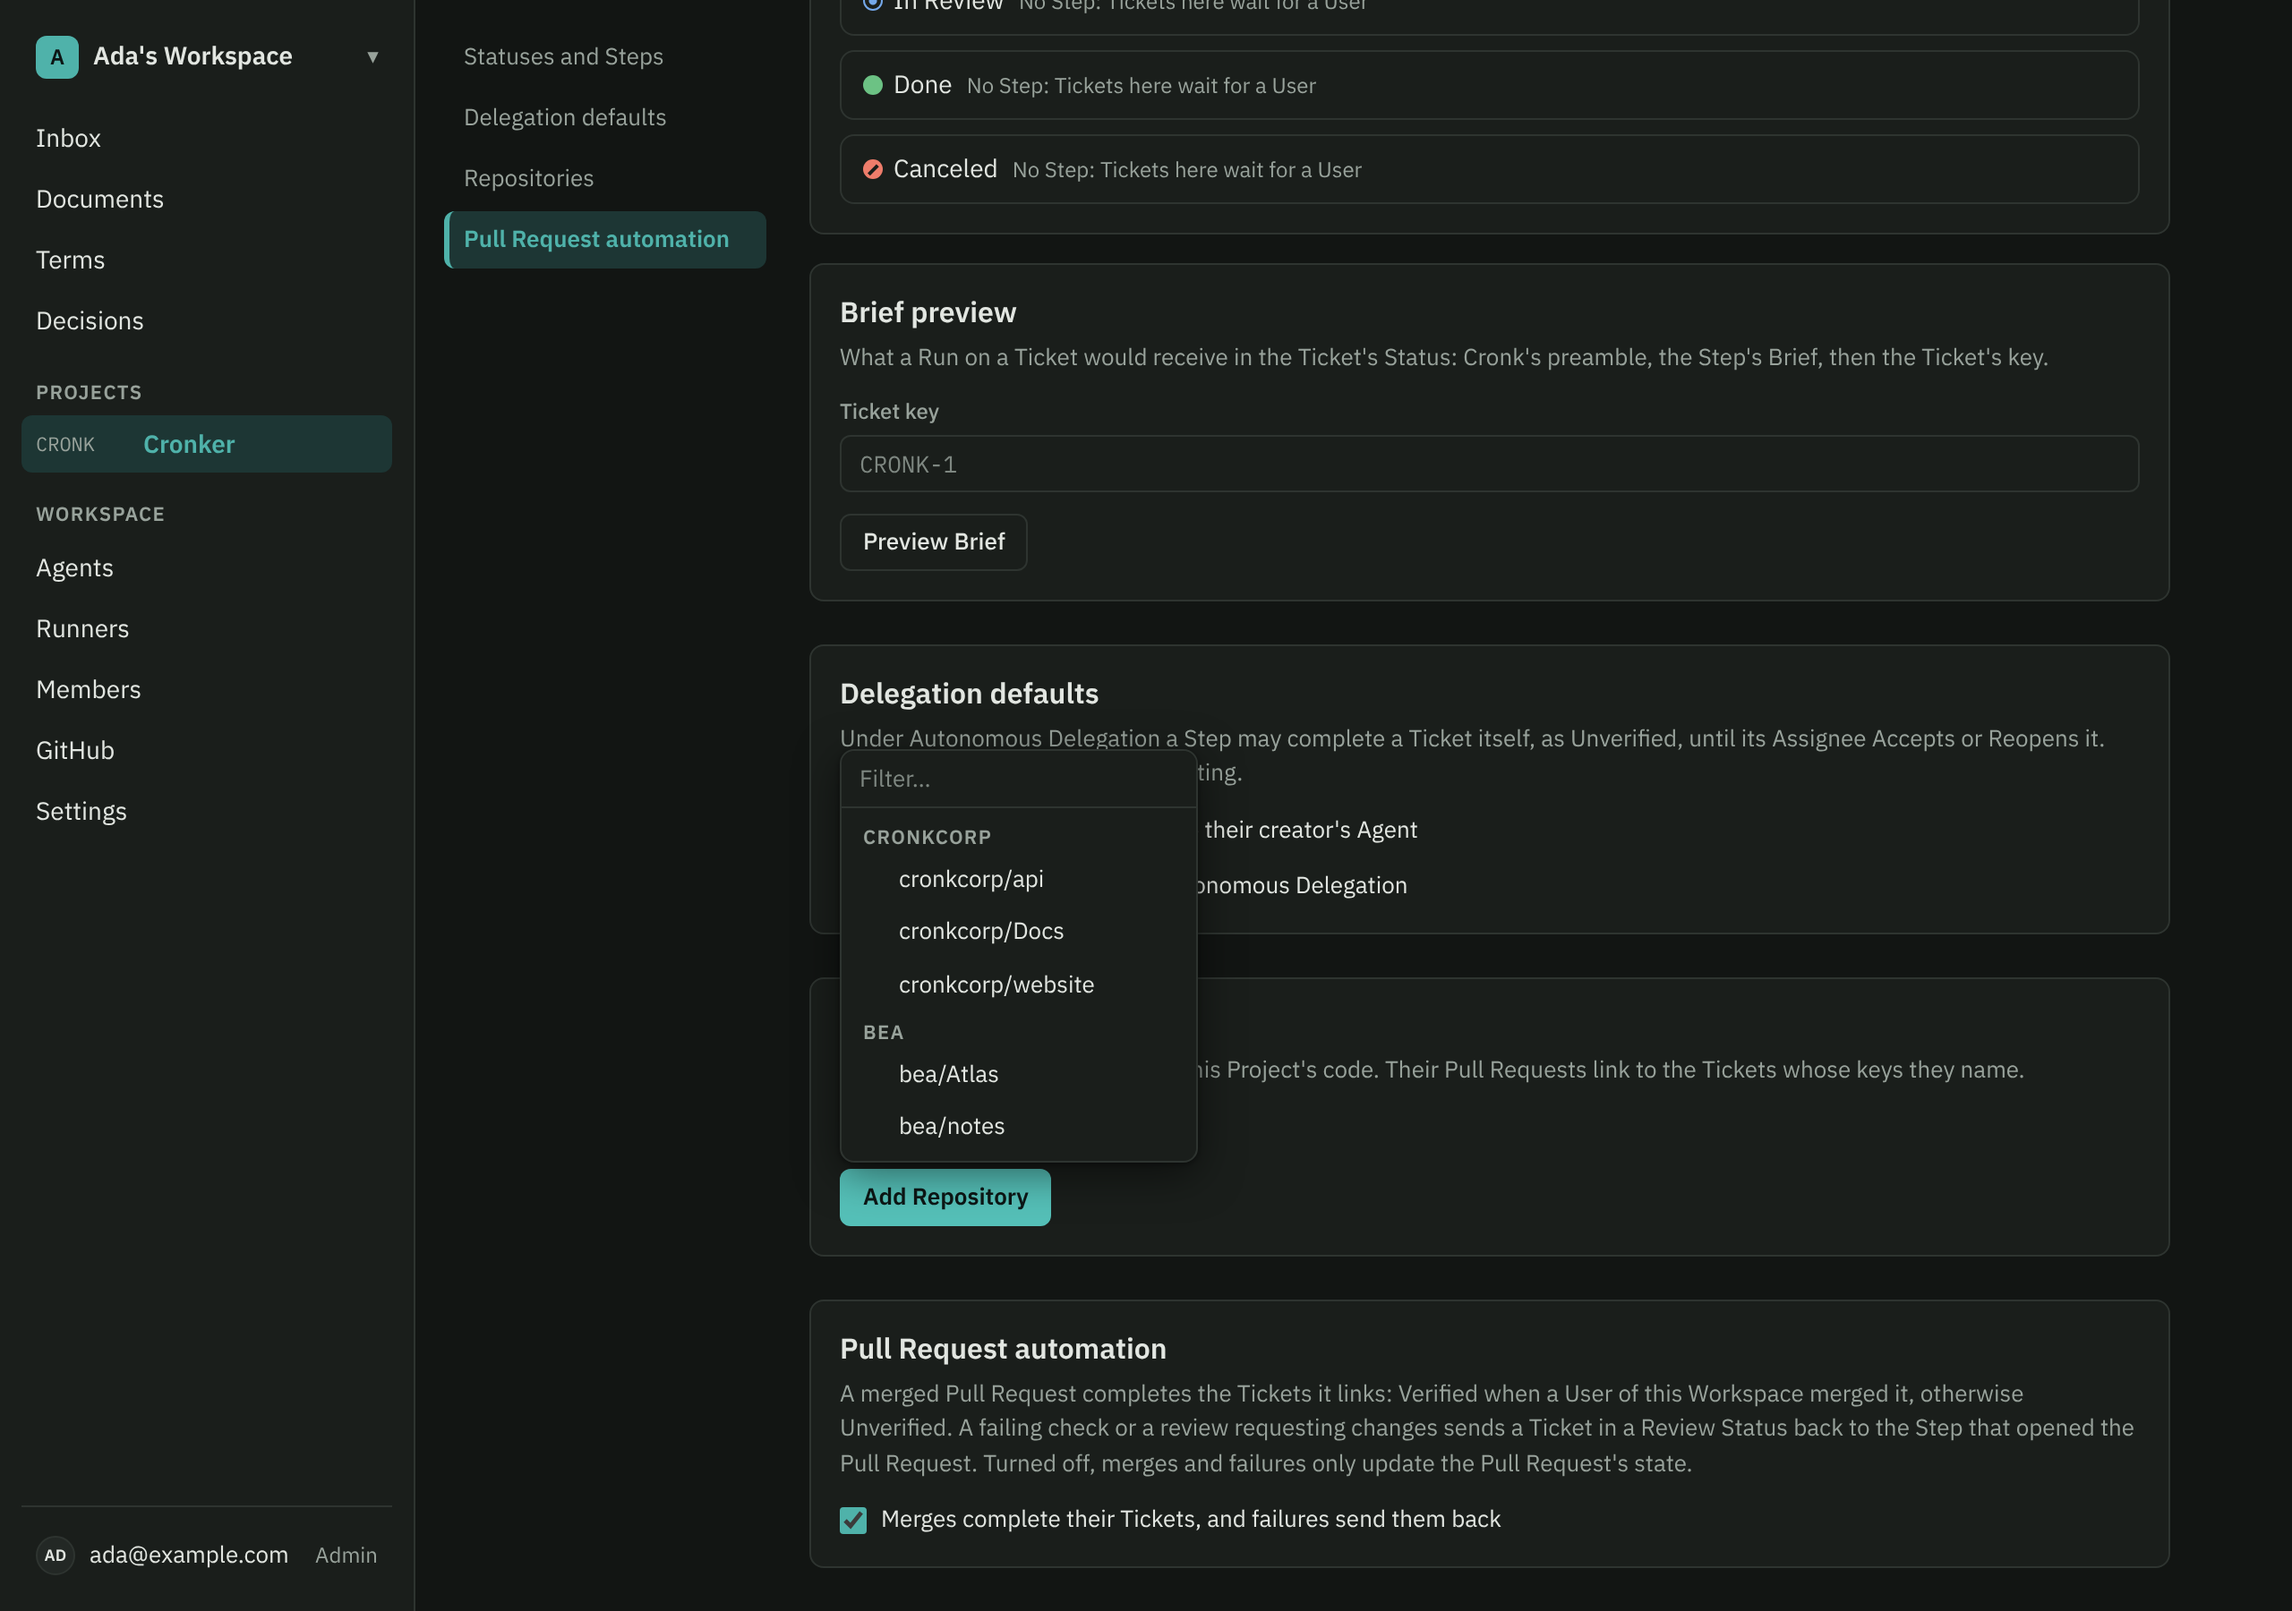
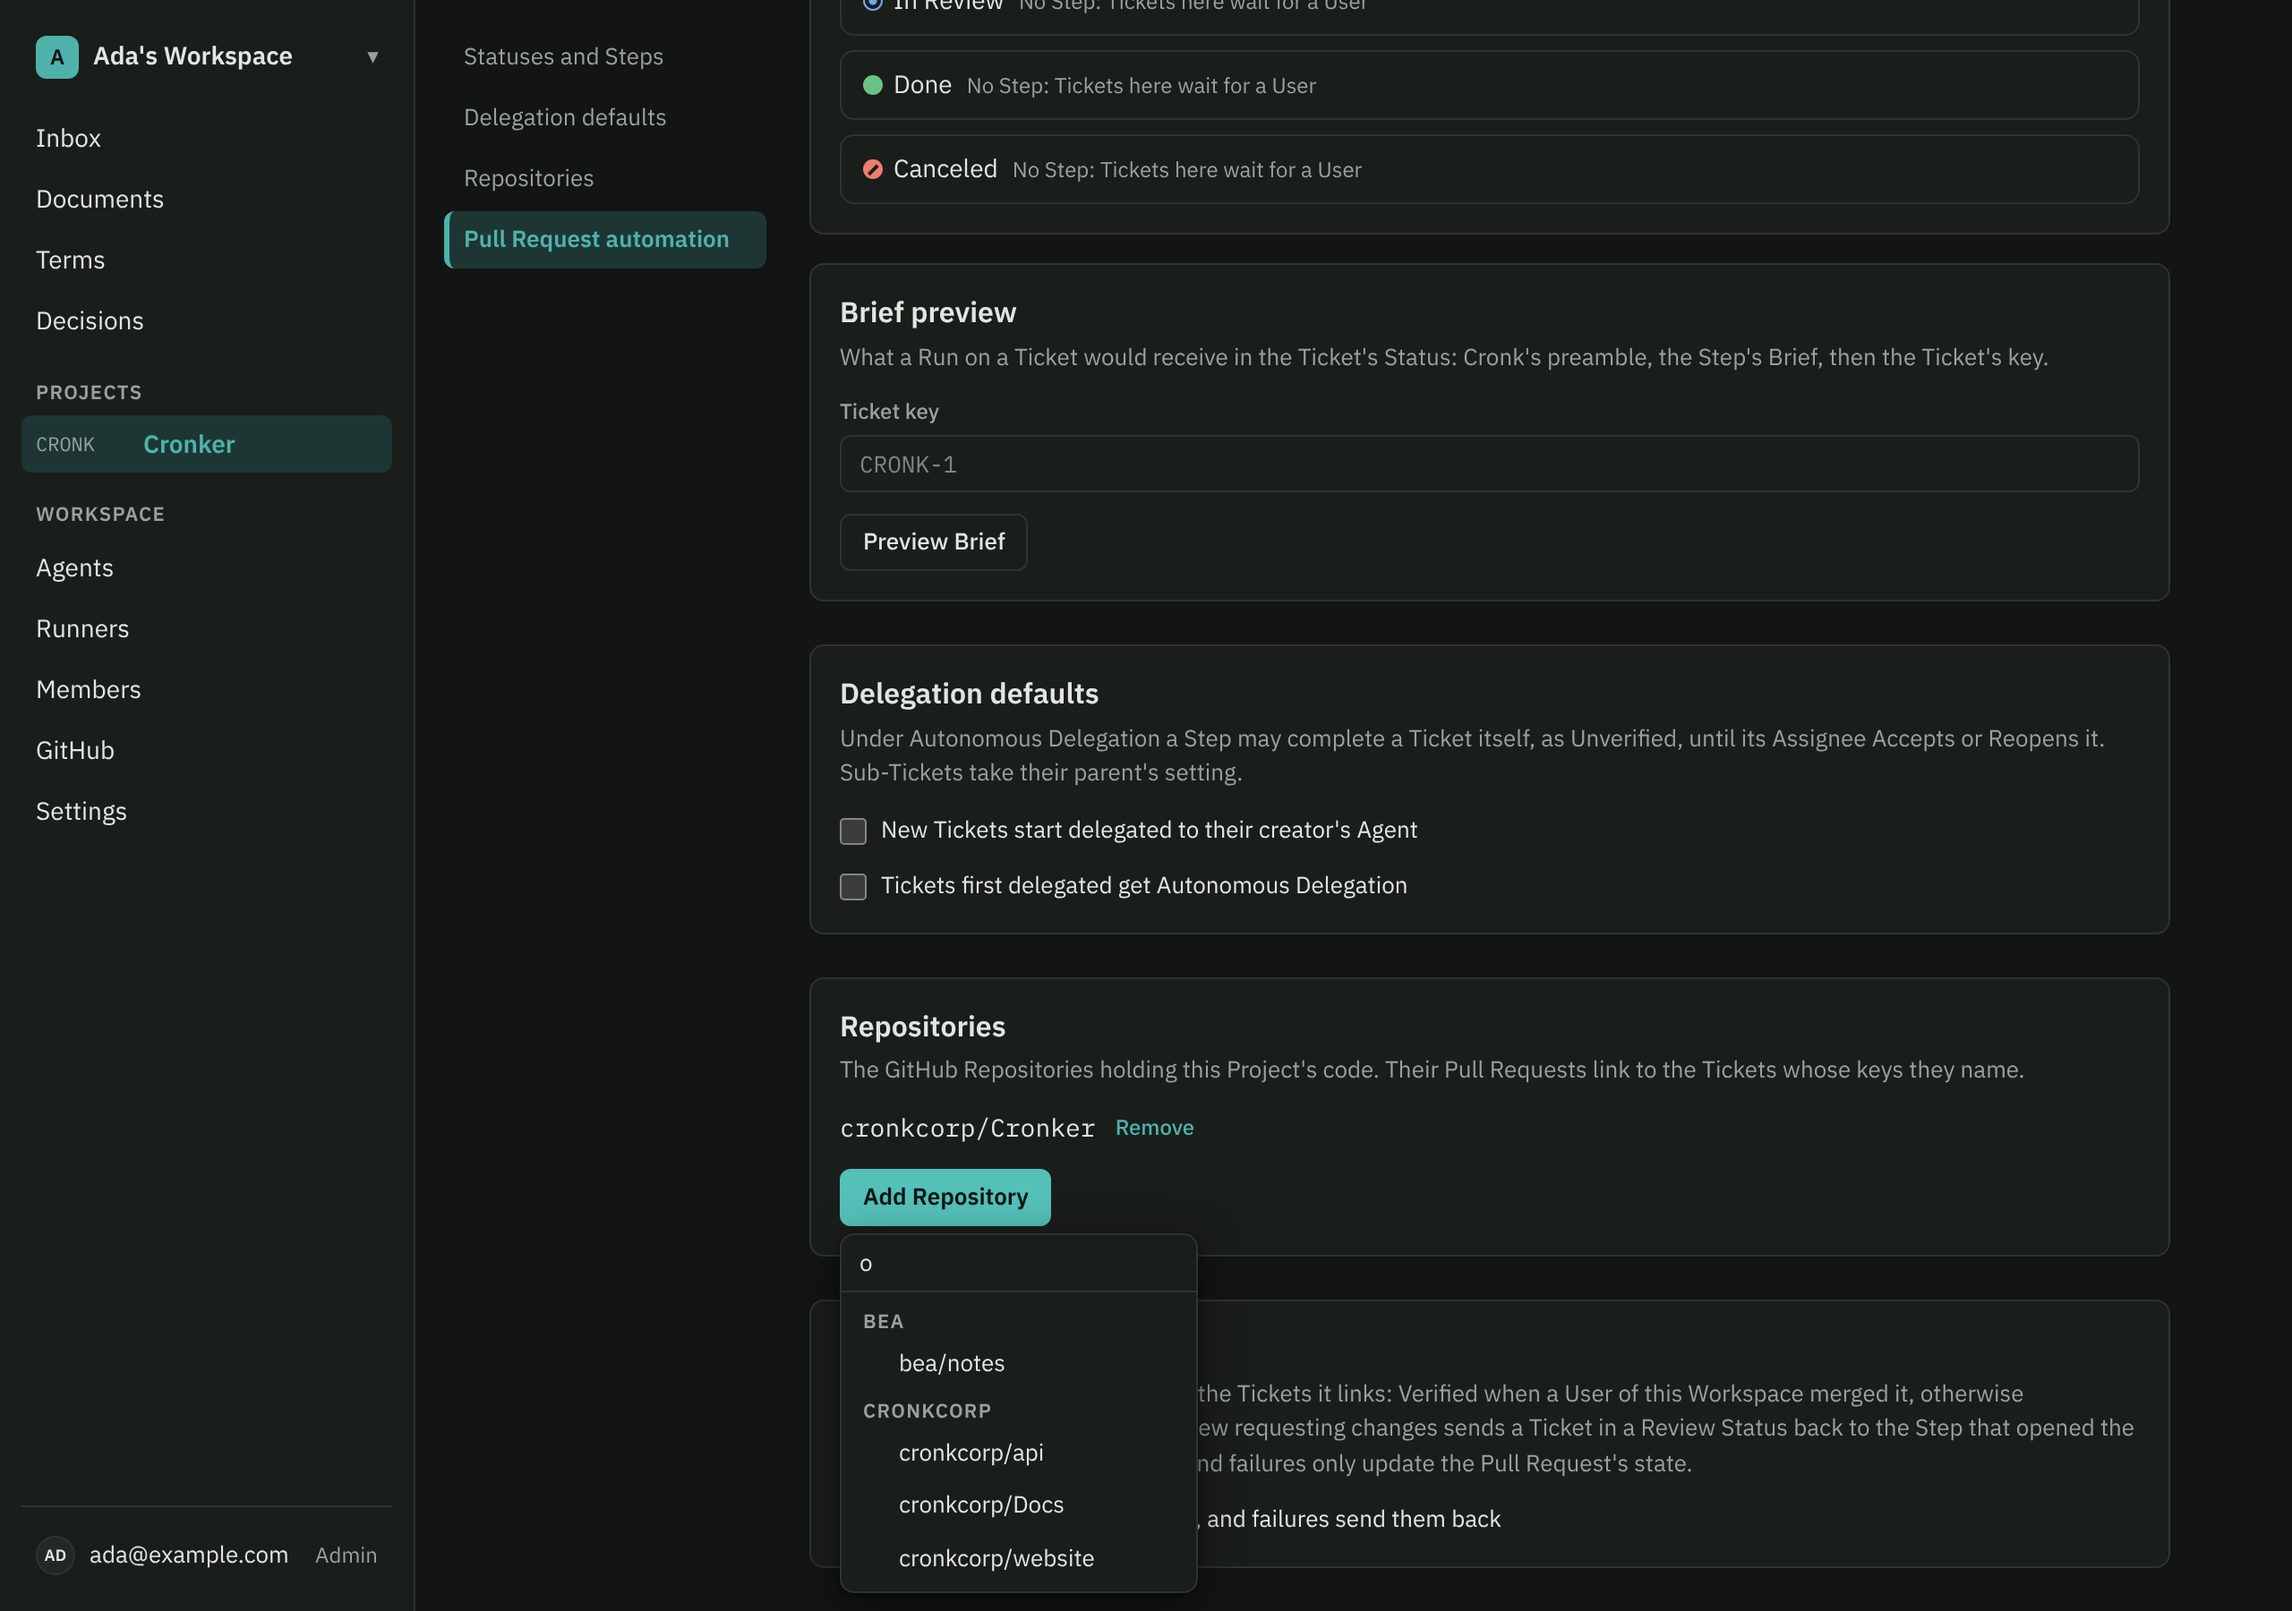
fix(web): keep the Repository Picker's notice out of its listbox
A loading line, error or nothing-left notice now replaces the listbox
instead of sitting in it as an option-less item, and Enter does nothing
while one shows. A github_not_set_up answer shows the section's no-App
line, so that state lives in one place. The e2e test stages GitHub being
unavailable through the stand-in GitHub, and the PR's screenshots add the
loading and unavailable states.

Changed region(s): [[0.3438, 0.4667, 0.5312, 0.7467], [0.3438, 0.8089, 0.5312, 0.9956]]

diff --git a/e2e/repositories.spec.ts b/e2e/repositories.spec.ts
@@ -88,22 +88,23 @@ test("the Repositories section asks GitHub only once Add Repository opens its Pi
 
   await repositories.getByRole("button", { name: "Add Repository" }).click();
   const picker = page.getByRole("listbox", { name: "Repository to add" });
-  await expect(picker.getByText("Asking GitHub which Repositories the App is installed on…")).toBeVisible();
+  await expect(page.getByRole("dialog", { name: "Repository to add" })).toHaveText("Asking GitHub which Repositories the App is installed on…", { useInnerText: true });
   answer();
-  await expect(picker.getByRole("group", { name: "cronkcorp" }).getByRole("option")).toHaveText(["cronkcorp/api", "cronkcorp/Cronker", "cronkcorp/Docs"]);
+  await expect(picker.getByRole("option")).toHaveText(["bea/Atlas", "bea/notes", "cronkcorp/api", "cronkcorp/Cronker", "cronkcorp/Docs"]);
   await expect(picker.getByRole("group", { name: "bea" }).getByRole("option")).toHaveText(["bea/Atlas", "bea/notes"]);
+  await expect(picker.getByRole("group", { name: "cronkcorp" }).getByRole("option")).toHaveText(["cronkcorp/api", "cronkcorp/Cronker", "cronkcorp/Docs"]);
   expect(asked).toHaveLength(1);
 
   // Typing filters; Enter picks the first match, adds it and closes the list.
   await page.getByRole("combobox", { name: "Filter Repository to add" }).fill("s");
-  await expect(picker.getByRole("option")).toHaveText(["cronkcorp/Docs", "bea/Atlas", "bea/notes"]);
+  await expect(picker.getByRole("option")).toHaveText(["bea/Atlas", "bea/notes", "cronkcorp/Docs"]);
   await page.keyboard.press("Enter");
   await expect(picker).toBeHidden();
-  await expect(repositories.getByRole("listitem")).toHaveText(["cronkcorp/DocsRemove", "cronkcorp/websiteRemove"]);
+  await expect(repositories.getByRole("listitem")).toHaveText(["bea/AtlasRemove", "cronkcorp/websiteRemove"]);
 
   // Opened again, it lists what is left without asking GitHub again.
   await repositories.getByRole("button", { name: "Add Repository" }).click();
-  await expect(picker.getByRole("option")).toHaveText(["cronkcorp/api", "cronkcorp/Cronker", "bea/Atlas", "bea/notes"]);
+  await expect(picker.getByRole("option")).toHaveText(["bea/notes", "cronkcorp/api", "cronkcorp/Cronker", "cronkcorp/Docs"]);
   expect(asked).toHaveLength(1);
 });
 
@@ -125,17 +126,15 @@ test("the Repositories section says when there is no App, GitHub can't be asked,
   cronk.github.signedInAs = cronk.github.account("ada-gh");
   await createGitHubApp(cronk, cookie);
   cronk.github.install(cronk.github.apps[0]!, "cronkcorp", []);
-  await page.route("**/api/github/installations", (route) =>
-    route.fulfill({ status: 502, json: { error: { code: "github_unavailable", message: "GitHub didn't answer." } } }),
-  );
+  cronk.github.unavailable = true;
   await page.reload();
   await repositories.getByRole("button", { name: "Add Repository" }).click();
-  const picker = page.getByRole("listbox", { name: "Repository to add" });
-  await expect(picker.getByRole("alert")).toHaveText("Couldn't ask GitHub which Repositories the App is installed on: GitHub didn't answer.");
+  const popover = page.getByRole("dialog", { name: "Repository to add" });
+  await expect(popover.getByRole("alert")).toHaveText(/^Couldn't ask GitHub which Repositories the App is installed on: GitHub couldn't be reached/);
 
   // Opened again, it asks again.
   await page.keyboard.press("Escape");
-  await page.unroute("**/api/github/installations");
+  cronk.github.unavailable = false;
   await repositories.getByRole("button", { name: "Add Repository" }).click();
-  await expect(picker.getByText("No other Repository is available. Install the GitHub App on more Repositories on GitHub to add them here.")).toBeVisible();
+  await expect(popover).toHaveText("No other Repository is available. Install the GitHub App on more Repositories on GitHub to add them here.", { useInnerText: true });
 });

diff --git a/web/src/repositories.tsx b/web/src/repositories.tsx
@@ -5,9 +5,6 @@ import { useLatest } from "./live.js";
 import { Banner, Button, FormError, Panel, Saved } from "./ui/controls.js";
 import { Picker, type PickerOption } from "./ui/picker.js";
 
-const noAppText =
-  "This installation has no GitHub App yet. Once an Admin creates it on the GitHub page and installs it on GitHub, its Repositories can be added here.";
-
 /**
  * The Repositories a Project lists as holding its code, added from those the GitHub App's
  * installations cover. Reloads whenever the Project changes, as on a rename on GitHub. GitHub
@@ -19,7 +16,6 @@ export function RepositoriesSettings({ project }: { project: Project }) {
   const [hasApp, setHasApp] = useState<boolean | undefined>(undefined);
   const [installations, setInstallations] = useState<GitHubInstallation[] | undefined>(undefined);
   const [installationsError, setInstallationsError] = useState<string | null>(null);
-  const [noApp, setNoApp] = useState(false);
   const [asking, setAsking] = useState(false);
   const { error, busy, saved, save } = useSave();
   const [loadError, setLoadError] = useState<string | null>(null);
@@ -41,7 +37,8 @@ export function RepositoriesSettings({ project }: { project: Project }) {
     api
       .githubInstallations()
       .then(setInstallations, (e: unknown) => {
-        if (e instanceof ApiError && e.code === "github_not_set_up") setNoApp(true);
+        // The App went away since the page asked Cronk.
+        if (e instanceof ApiError && e.code === "github_not_set_up") setHasApp(false);
         else setInstallationsError(e instanceof Error ? e.message : String(e));
       })
       .finally(() => setAsking(false));
@@ -55,7 +52,7 @@ export function RepositoriesSettings({ project }: { project: Project }) {
     });
 
   const listed = new Set(repositories?.map((r) => r.id));
-  // GitHub's answer comes sorted by owner/name; several installations are told apart by their account.
+  // Cronk answers by account and owner/name; several installations are told apart by their account.
   const options: PickerOption[] = (installations ?? []).flatMap((installation) =>
     installation.repositories
       .filter((r) => !listed.has(r.id))
@@ -65,9 +62,7 @@ export function RepositoriesSettings({ project }: { project: Project }) {
         group: installations!.length > 1 ? installation.account : undefined,
       })),
   );
-  const notice = noApp ? (
-    noAppText
-  ) : installationsError ? (
+  const notice = installationsError ? (
     <FormError error={`Couldn't ask GitHub which Repositories the App is installed on: ${installationsError}`} />
   ) : !installations ? (
     "Asking GitHub which Repositories the App is installed on…"
@@ -109,13 +104,16 @@ export function RepositoriesSettings({ project }: { project: Project }) {
         </ul>
       )}
       {hasApp === false ? (
-        <p className="muted">{noAppText}</p>
+        <p className="muted">
+          This installation has no GitHub App yet. Once an Admin creates it on the GitHub page and installs it on GitHub,
+          its Repositories can be added here.
+        </p>
       ) : hasApp === true ? (
         <div>
           <Picker
             label="Repository to add"
             onOpenChange={(open) => open && askGitHub()}
-            options={notice === undefined ? options : []}
+            options={options}
             notice={notice}
             onPick={(id) => void change(() => api.addRepository(project.id, Number(id)))}
             trigger={

diff --git a/web/src/ui/picker.tsx b/web/src/ui/picker.tsx
@@ -27,7 +27,7 @@ interface PickerProps {
   /** Picking toggles and keeps the list open. */
   multiple?: boolean;
   onOpenChange?: (open: boolean) => void;
-  /** Shown in place of the options, such as while they load or when they can't be had. */
+  /** Shown in place of the list of options, such as while they load or when they can't be had. */
   notice?: ReactNode;
 }
 
@@ -74,6 +74,7 @@ export function Picker({
       setActive((at) => (shown.length === 0 ? -1 : (at + step + shown.length) % shown.length));
     } else if (event.key === "Enter") {
       event.preventDefault();
+      if (notice !== undefined) return;
       const option = active >= 0 ? shown[active] : typed ? shown[0] : undefined;
       if (option) choose(option);
     }
@@ -153,16 +154,16 @@ export function Picker({
           }}
           onKeyDown={onKeyDown}
         />
-        <ul role="listbox" id={`${id}-list`} aria-label={label} aria-multiselectable={multiple || undefined} className="picker-list">
-          {notice !== undefined ? (
-            <li className="picker-empty">{notice}</li>
-          ) : (
-            <>
-              {shown.length === 0 && <li className="picker-empty">{options.length === 0 ? "Nothing to pick." : "Nothing matches."}</li>}
-              {items}
-            </>
-          )}
-        </ul>
+        {notice !== undefined ? (
+          <div id={`${id}-list`} className="picker-empty">
+            {notice}
+          </div>
+        ) : (
+          <ul role="listbox" id={`${id}-list`} aria-label={label} aria-multiselectable={multiple || undefined} className="picker-list">
+            {shown.length === 0 && <li className="picker-empty">{options.length === 0 ? "Nothing to pick." : "Nothing matches."}</li>}
+            {items}
+          </ul>
+        )}
       </div>
     </Popover>
   );
